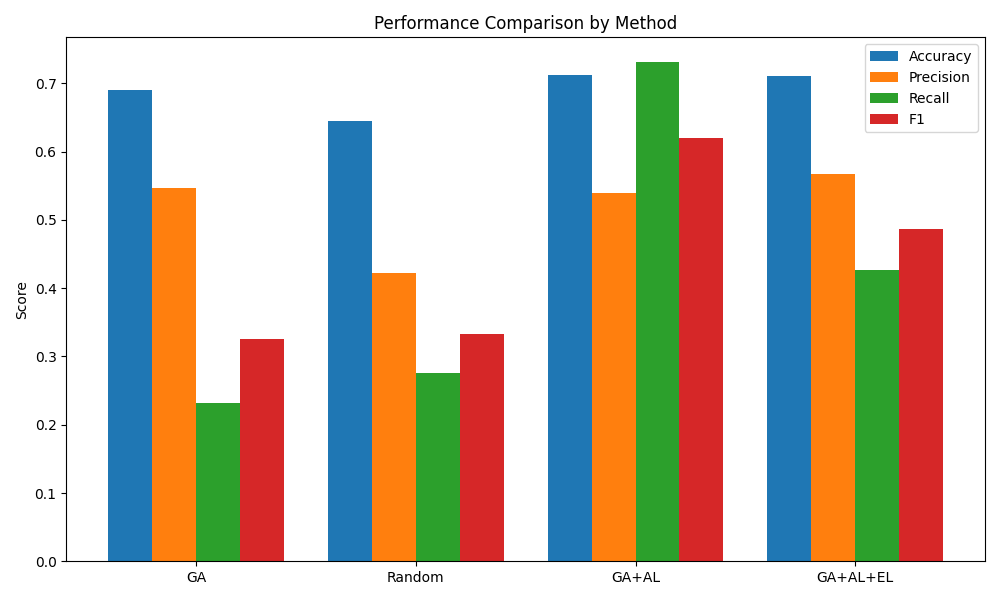
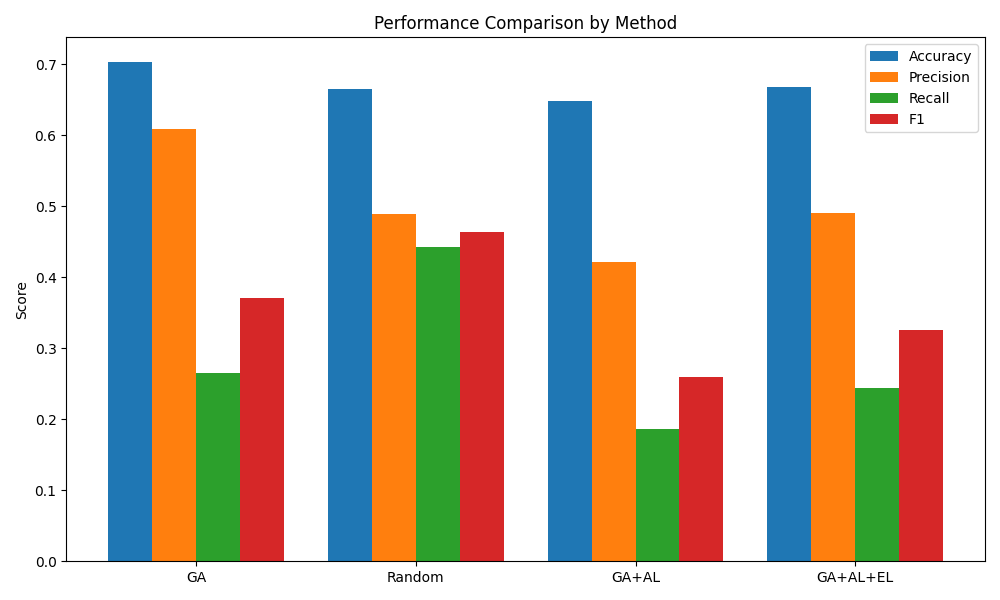
update with preprocessing improvements

diff --git a/experiment/report.md b/experiment/report.md
@@ -4,7 +4,7 @@
 
 | Method | Accuracy | Precision | Recall | F1-Score | Time (s) |
 |--------|----------|-----------|--------|----------|----------|
-| GA | 0.6907 | 0.5463 | 0.2319 | 0.3256 | 5.30 |
-| Random | 0.6453 | 0.4222 | 0.2754 | 0.3333 | 0.59 |
-| GA+AL | 0.7120 | 0.5389 | 0.7308 | 0.6204 | 0.59 |
-| GA+AL+EL | 0.7107 | 0.5675 | 0.4265 | 0.4870 | 0.68 |
+| GA | 0.7027 | 0.6093 | 0.2657 | 0.3701 | 6.32 |
+| Random | 0.6647 | 0.4888 | 0.4422 | 0.4643 | 0.90 |
+| GA+AL | 0.6487 | 0.4220 | 0.1866 | 0.2588 | 0.93 |
+| GA+AL+EL | 0.6680 | 0.4898 | 0.2434 | 0.3252 | 1.07 |
